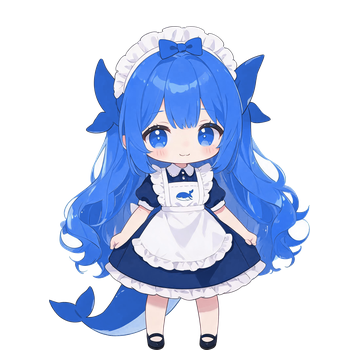
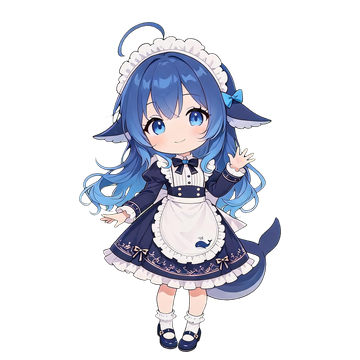
行为日志 + 面板精简；完成提示改为「有新完成任务」
- 行为日志：工作区 \Log\pet.log 一行一件，记启动/状态/任务/面板/功能/互动/聊天/退出（Beat）；排错日志仍在 ds-pet\pet.log
- 功能面板删掉「查看完成任务」（与 dsh 命令重复）、「打开工作区」「打开终端」（没必要）、「打开配置」（不应外显），并清掉对应死代码（Open-PetTerminal、$script:actConfig、review 数字徽标）
- 任务完成气泡改为「有新完成任务」，不再报数量（去掉 $script:doneCount / $script:bubbleKind）
- 立绘四态 + sheet 更新；删除 *_close 立绘、diag.png、preview.gif、preview-panel.png
- README 同步以上改动

diff --git a/README.md b/README.md
@@ -26,7 +26,7 @@
 
 状态机规则：
 
-- 任务完成时，无论当前什么状态都进开心 30 秒；已在开心则顺延 30 秒，气泡提示「存在（n）个已完成任务待查看」，n 是**本轮新完成**的个数；
+- 任务完成时，无论当前什么状态都进开心 30 秒；已在开心则顺延 30 秒，气泡提示「有新完成任务」；
 - 开心结束后：还有任务在跑就回工作，否则回待机；
 - 只有待机满 3 分钟会睡；工作状态不会睡；休眠时来了新任务会自动醒；
 - 双击只认角色身上的像素，透明区域点不到。
@@ -61,14 +61,10 @@
 | --- | --- |
 | 打开 DSH | 把 DeepSeek Harness 窗口恢复到前台（没开就启动） |
 | 和小鲸聊天 | 打开聊天框 |
-| 查看完成任务 | 右侧显示待查看数；点一下打开 DSH 并清零 |
-| 打开工作区 | 资源管理器打开 `default-workspace` |
-| 打开终端 | Windows Terminal 打开在工作区（没有 wt 就退回 PowerShell） |
 | 截个屏 | 全屏截图存到 `shots\shot-时间戳.png` |
 | 复制工作区路径 | 路径进剪贴板 |
 | 说句话 | 随机台词 |
 | 四处游动 | 开关屏幕游走，右侧显示状态 |
-| 打开配置 | notepad 打开 `pet-config.json` |
 | 关机 | 确认后 5 秒关机；系统关机/注销时桌宠会自动先关掉自己 |
 | 退出 | 关闭桌宠 |
 
@@ -115,11 +111,43 @@ $p = 'C:\Users\admin\Documents\deepseek-harness\default-workspace\ds-pet\pet-sta
 
 状态由状态机自己管，`mood` 字段不再生效；这里只负责「让它说一句话」。
 
+## 行为日志 `Log\pet.log`
+
+桌宠会在工作区根目录建 `Log` 文件夹（即 `ds-pet` 的上一级），把「实际做了什么」一行一件记下来：
+
+```
+[02:25:01] 启动  小鲸启动，位置 (1893,345)
+[02:25:01] 状态  检测到 DSH 任务，进入工作
+[02:25:40] 任务  有新完成任务，进入开心 30 秒
+[02:25:40] 说话  有新完成任务
+[02:26:10] 状态  开心结束，回到工作
+[02:27:00] 面板  打开功能面板
+[02:27:02] 功能  截个屏
+[02:28:00] 聊天  发送：在吗
+[02:28:04] 聊天  回复：在的在的～
+[02:32:00] 退出  桌宠关闭，位置 (1893,345)
+```
+
+- 一行一件事，超过 60 字自动截断；只记行为，不记调试细节；
+- 排错用的技术日志仍在 `ds-pet\pet.log`；
+- 写日志失败（权限/磁盘）不会影响桌宠运行。
+
 ## 换图 / 改图
 
-- 现在的立绘在 `assets/pet/`（idle / busy / happy / sleepy + sheet.png），360×360；
-- `assets/gen/` 里是更早的代码生成版和 AI 出图，`_draw_pet.py` 是代码画法，`_cutout.py` 能按四角背景色抠图；
+- 现在的立绘在 `assets/pet/`（idle / busy / happy / sleepy + sheet.png），360×360 透明底；
+- 生成流程：`_gen_v5.ps1` / `_gen_idle_ear.ps1` 调网关出图（**纯绿幕背景**）→ `_keygreen.py` 抠绿幕 + 去溢色 → 输出透明 PNG；
+- 出图提示词里锁死了这几条，改图时别丢：
+  - **没有人类耳朵**，头部两侧只有一片横向扇贝边的鲸鱼鳍耳；
+  - 头发、鳍耳、鲸尾**同一套深藏蓝**（主色 `#2B3FA8`、高光 `#4D6BFE`、暗部 `#1B2A7A`）；
+  - 长发到腰、发尾卷曲，头顶**只有呆毛**，白色荷叶边发带**不带蝴蝶结**；
+  - 干活/睡觉两态必须有**白色四腿椅**，笔记本背面是**鲸鱼 logo**（不能出现任何水果标志）；
+- 不再用白底 + 手动抠轮廓：白底图边缘抗锯齿会残留一圈白边，绿幕抠像 + 去溢色没有这个问题；
 - 换图只要保持四张同画布、角色脚底对齐，气泡锚点会在启动时自动扫描头顶重新校准，不用改代码。
+
+### 为什么用绿幕而不是「透明底参数」
+
+网关的 `seedream-5.0-lite` 走 `openai:image-generations` 协议，传 `background: transparent`、`output_format: png` **仍返回无 alpha 的 RGB 图**（角落是 `253,253,253`）。
+带原生透明输出的 `seedream-5.0-flash` 只支持 `ark:image-generations` 协议，当前网关的 OpenAI 兼容路由到不了。所以选绿幕 + 抠像这条稳定的路。
 
 ## 注意
 
